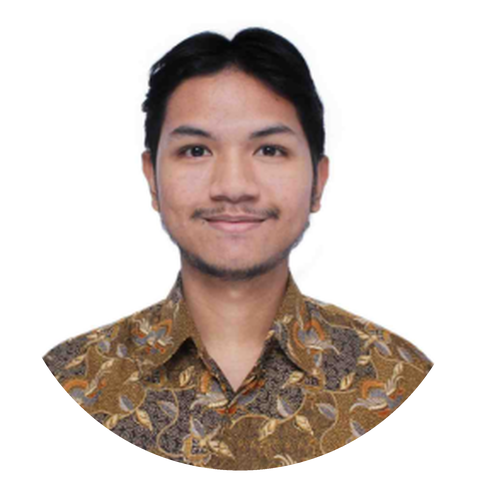
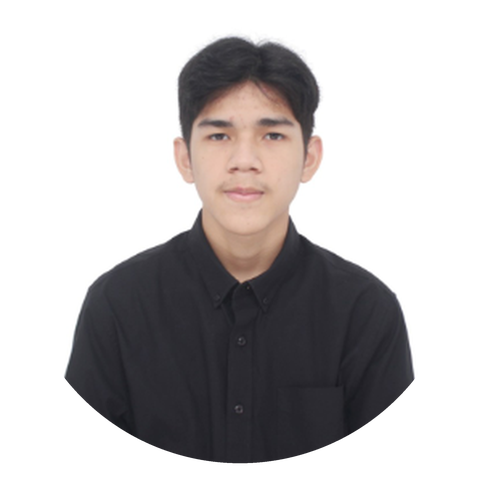
fix: external-link styling, swap emoji arrow for an SVG, LNA contributors
- .ext-link replaces the bright-blue .idfest-live-link and the plain
  .hrefnocolor header links: page-dark text on a hairline rule.
- U+2197 rendered as a blue emoji tile on Windows regardless of text
  colour; replaced with a currentColor SVG (.ext-arrow) on all 12 links.
- idfest.ppiunimalaya.id in the Live Preview lead is now a link.
- Large Number Arithmetic gains a contributor byline: Abqary Nasution,
  Gema Radya Prabowo and Ilham Narendra Setiabudi link to LinkedIn;
  Dafi Atha is a photo and name only (no profile supplied).
- The two IDFEST contributor photos were swapped relative to their
  names; corrected against the team-page screenshot.
- Chulalongkorn Phra Kiao crest replaces the CU monogram tile.

Claude-Session: https://claude.ai/code/session_01NPQ1TjCaAGkHdJJhGBBZJ3

diff --git a/v7/main.css b/v7/main.css
@@ -917,15 +917,32 @@ a.contributor-chip:hover .contributor-chip-avatar { border-color: #c7cbd1; }
     color: #374151;
 }
 
-/* a link that should visibly read as a link, not blend into plain text */
-.idfest-live-link {
-    color: #49a2f5;
+/* An external link that should read as a link without shouting: page-dark
+   text on a hairline rule that fills in on hover. No blue, nothing that
+   competes with the headline above it. */
+.ext-link {
+    color: #050505;
     font-weight: 600;
     text-decoration: none;
-    border-bottom: solid 1px rgba(73, 162, 245, .35);
-    transition: border-color .15s ease, color .15s ease;
+    white-space: nowrap;
+    border-bottom: solid 1px #d3d7dd;
+    transition: border-color .15s ease;
 }
-.idfest-live-link:hover { color: #2f8ae0; border-color: #2f8ae0; }
+.ext-link:hover { border-bottom-color: #050505; }
+
+/* The arrow next to an external link. Drawn as an SVG rather than the
+   character U+2197, which Windows and most phones render as a blue emoji
+   tile that ignores the surrounding text colour. */
+.ext-arrow {
+    width: .68em;
+    height: .68em;
+    display: inline-block;
+    vertical-align: -.02em;
+    margin-left: 4px;
+    flex: 0 0 auto;
+    opacity: .75;
+}
+a:hover > .ext-arrow { opacity: 1; }
 
 /* ── LIVE PREVIEW ── large, uncapped section screenshots (bigger than
    the standard .rf-figure, which caps at 480px tall) ── */

diff --git a/v7/content/projects/largenumber.php b/v7/content/projects/largenumber.php
@@ -20,7 +20,25 @@
             <br>
             <span>Arithmetic on numbers far larger than any built-in type can hold, using a doubly linked list where every digit is its own node. A Java engine does the maths; a Next.js visualizer walks the algorithm one step at a time so you can watch the carries move.</span>
             <div class="p-meta"><span class="p-meta-item"><span class="p-meta-k">Status</span><span class="p-meta-v">Complete</span></span><span class="p-meta-item"><span class="p-meta-k">Year</span><span class="p-meta-v">2026</span></span><span class="p-meta-item"><span class="p-meta-k">Role</span><span class="p-meta-v">Team Project</span></span><span class="p-meta-item"><span class="p-meta-k">Course</span><span class="p-meta-v">WIA1002 Data Structures</span></span></div>
-            <a href="https://github.com/rafiarsya07/WIA1002_LargeNumberArithmetic" target="_blank" rel="noopener" class="hrefnocolor">View on GitHub &#8599;</a>
+            <a href="https://github.com/rafiarsya07/WIA1002_LargeNumberArithmetic" target="_blank" rel="noopener" class="ext-link">View on GitHub<svg class="ext-arrow" viewBox="0 0 24 24" fill="none" stroke="currentColor" stroke-width="2.4" stroke-linecap="round" stroke-linejoin="round" aria-hidden="true"><path d="M7 17 17 7M8 7h9v9"/></svg></a>
+            <div class="contributors-byline">
+<a class="contributor-chip" href="https://www.linkedin.com/in/abqarynasution/" target="_blank" rel="noopener noreferrer">
+<img class="contributor-chip-avatar" src="image/assets/largenumber/contributor-abqary.png" alt="Abqary Nasution" loading="lazy" decoding="async">
+<span class="contributor-chip-name">Abqary Nasution</span>
+</a>
+<a class="contributor-chip" href="https://www.linkedin.com/in/gema-radya-prabowo-2ba8392b4/" target="_blank" rel="noopener noreferrer">
+<img class="contributor-chip-avatar" src="image/assets/largenumber/contributor-gema.png" alt="Gema Radya Prabowo" loading="lazy" decoding="async">
+<span class="contributor-chip-name">Gema Radya Prabowo</span>
+</a>
+<a class="contributor-chip" href="https://www.linkedin.com/in/ilhamsetiabudi/" target="_blank" rel="noopener noreferrer">
+<img class="contributor-chip-avatar" src="image/assets/largenumber/contributor-ilham.png" alt="Ilham Narendra Setiabudi" loading="lazy" decoding="async">
+<span class="contributor-chip-name">Ilham Narendra Setiabudi</span>
+</a>
+<span class="contributor-chip">
+<img class="contributor-chip-avatar" src="image/assets/largenumber/contributor-dafi.png" alt="Dafi Atha" loading="lazy" decoding="async">
+<span class="contributor-chip-name">Dafi Atha</span>
+</span>
+            </div>
         </div>
         <div style="border-top: solid 1px #acb8c0; margin-bottom: 10px;"></div>
         <h3>01 The Problem</h3>

diff --git a/v7/content/projects/idfest.php b/v7/content/projects/idfest.php
@@ -22,7 +22,7 @@
             <br>
             <span>The official website for IDFEST 2026, an Indonesian cultural festival organized by PPI Universiti Malaya. A collaborative build translating Figma designs into a fast, static Next.js frontend across the home timeline, Art Exhibition, and Musical Theater sections.</span>
             <br>
-            <div class="p-meta"><span class="p-meta-item"><span class="p-meta-k">Status</span><span class="p-meta-v">Completed</span></span><span class="p-meta-item"><span class="p-meta-k">Year</span><span class="p-meta-v">2026</span></span><span class="p-meta-item"><span class="p-meta-k">Role</span><span class="p-meta-v">Website Development Committee</span></span><span class="p-meta-item"><span class="p-meta-k">Stack</span><span class="p-meta-v">Next.js, Tailwind CSS</span></span></div><a href="https://idfest.ppiunimalaya.id/" target="_blank" rel="noopener" class="idfest-live-link">IDFEST 2026 &#8599;</a>
+            <div class="p-meta"><span class="p-meta-item"><span class="p-meta-k">Status</span><span class="p-meta-v">Completed</span></span><span class="p-meta-item"><span class="p-meta-k">Year</span><span class="p-meta-v">2026</span></span><span class="p-meta-item"><span class="p-meta-k">Role</span><span class="p-meta-v">Website Development Committee</span></span><span class="p-meta-item"><span class="p-meta-k">Stack</span><span class="p-meta-v">Next.js, Tailwind CSS</span></span></div><a href="https://idfest.ppiunimalaya.id/" target="_blank" rel="noopener" class="ext-link">IDFEST 2026<svg class="ext-arrow" viewBox="0 0 24 24" fill="none" stroke="currentColor" stroke-width="2.4" stroke-linecap="round" stroke-linejoin="round" aria-hidden="true"><path d="M7 17 17 7M8 7h9v9"/></svg></a>
             <div class="contributors-byline">
 <a class="contributor-chip" href="https://www.linkedin.com/in/ilhamsetiabudi/" target="_blank" rel="noopener noreferrer">
 <img class="contributor-chip-avatar" src="image/assets/idfest/contributor-ilham.png" alt="Ilham Narendra Setiabudi" loading="lazy" decoding="async">
@@ -53,7 +53,7 @@
         <br>
         <h3>03 Live Preview</h3>
         <div class="blog-content-body">
-<p class="rf-media-lead">A closer look at every main section, live at <b>idfest.ppiunimalaya.id</b>.</p>
+<p class="rf-media-lead">A closer look at every main section, live at <a class="ext-link" href="https://idfest.ppiunimalaya.id/" target="_blank" rel="noopener">idfest.ppiunimalaya.id<svg class="ext-arrow" viewBox="0 0 24 24" fill="none" stroke="currentColor" stroke-width="2.4" stroke-linecap="round" stroke-linejoin="round" aria-hidden="true"><path d="M7 17 17 7M8 7h9v9"/></svg></a>.</p>
 
 <div class="rf-livegroup">
 <p class="rf-livegroup-title">Home</p>

diff --git a/v7/content/projects/resumematch.php b/v7/content/projects/resumematch.php
@@ -21,7 +21,7 @@
             <br>
             <span>An algorithmic resume-to-job scoring engine, upload a resume PDF and a job description, get a fit score with a full breakdown of matched skills, missing skills, and extra value. No AI model, no API key, no database, pure tokenization, synonym canonicalization, and weighted scoring.</span>
             <br>
-            <div class="p-meta"><span class="p-meta-item"><span class="p-meta-k">Status</span><span class="p-meta-v">Completed, Live</span></span><span class="p-meta-item"><span class="p-meta-k">Year</span><span class="p-meta-v">2026</span></span><span class="p-meta-item"><span class="p-meta-k">Type</span><span class="p-meta-v">Algorithm Engine, Full Stack</span></span><span class="p-meta-item"><span class="p-meta-k">Cost</span><span class="p-meta-v">$0, No API Calls</span></span></div><a href="https://resumematch.rafiarsya.com" target="_blank" rel="noopener" class="hrefnocolor">resumematch.rafiarsya.com &#8599;</a>
+            <div class="p-meta"><span class="p-meta-item"><span class="p-meta-k">Status</span><span class="p-meta-v">Completed, Live</span></span><span class="p-meta-item"><span class="p-meta-k">Year</span><span class="p-meta-v">2026</span></span><span class="p-meta-item"><span class="p-meta-k">Type</span><span class="p-meta-v">Algorithm Engine, Full Stack</span></span><span class="p-meta-item"><span class="p-meta-k">Cost</span><span class="p-meta-v">$0, No API Calls</span></span></div><a href="https://resumematch.rafiarsya.com" target="_blank" rel="noopener" class="ext-link">resumematch.rafiarsya.com<svg class="ext-arrow" viewBox="0 0 24 24" fill="none" stroke="currentColor" stroke-width="2.4" stroke-linecap="round" stroke-linejoin="round" aria-hidden="true"><path d="M7 17 17 7M8 7h9v9"/></svg></a>
         </div>
         <div style="border-top: solid 1px #acb8c0; margin-bottom: 10px;"></div>
         <h3>01 Project Overview</h3>

diff --git a/v7/content/projects/csastudy.php b/v7/content/projects/csastudy.php
@@ -21,7 +21,7 @@
             <br>
             <span>A self-contained exam prep tool for WRES1201 (Computer Systems Architecture). Topic guide, formula reference, MCQ drills, and interactive visualizers for cache mapping, Hamming codes, and arithmetic shifts, with every number re-randomized on each reload so it never gets stale.</span>
             <br>
-            <div class="p-meta"><span class="p-meta-item"><span class="p-meta-k">Status</span><span class="p-meta-v">Completed, Live</span></span><span class="p-meta-item"><span class="p-meta-k">Year</span><span class="p-meta-v">2026</span></span><span class="p-meta-item"><span class="p-meta-k">Type</span><span class="p-meta-v">Study Tool, Course Prep</span></span><span class="p-meta-item"><span class="p-meta-k">File Size</span><span class="p-meta-v">1 HTML file</span></span></div><a href="https://csastudy.rafiarsya.com" target="_blank" rel="noopener" class="hrefnocolor">csastudy.rafiarsya.com &#8599;</a>
+            <div class="p-meta"><span class="p-meta-item"><span class="p-meta-k">Status</span><span class="p-meta-v">Completed, Live</span></span><span class="p-meta-item"><span class="p-meta-k">Year</span><span class="p-meta-v">2026</span></span><span class="p-meta-item"><span class="p-meta-k">Type</span><span class="p-meta-v">Study Tool, Course Prep</span></span><span class="p-meta-item"><span class="p-meta-k">File Size</span><span class="p-meta-v">1 HTML file</span></span></div><a href="https://csastudy.rafiarsya.com" target="_blank" rel="noopener" class="ext-link">csastudy.rafiarsya.com<svg class="ext-arrow" viewBox="0 0 24 24" fill="none" stroke="currentColor" stroke-width="2.4" stroke-linecap="round" stroke-linejoin="round" aria-hidden="true"><path d="M7 17 17 7M8 7h9v9"/></svg></a>
         </div>
         <div style="border-top: solid 1px #acb8c0; margin-bottom: 10px;"></div>
         <h3>01 Project Overview</h3>

diff --git a/v7/content/projects/papermind.php b/v7/content/projects/papermind.php
@@ -24,7 +24,7 @@
             <br>
             <span>A local RAG-powered academic paper analyzer. Upload any PDF, ask questions, get structured summaries, running 100% privately on self-hosted hardware. Zero cloud, zero cost, zero data leakage.</span>
             <br>
-            <div class="p-meta"><span class="p-meta-item"><span class="p-meta-k">Status</span><span class="p-meta-v">In Development</span></span><span class="p-meta-item"><span class="p-meta-k">Year</span><span class="p-meta-v">2026</span></span><span class="p-meta-item"><span class="p-meta-k">Role</span><span class="p-meta-v">Solo Developer</span></span><span class="p-meta-item"><span class="p-meta-k">Approach</span><span class="p-meta-v">RAG, Local LLM</span></span></div><a href="https://papermind.rafiarsya.com" target="_blank" rel="noopener" class="hrefnocolor">papermind.rafiarsya.com &#8599;</a>
+            <div class="p-meta"><span class="p-meta-item"><span class="p-meta-k">Status</span><span class="p-meta-v">In Development</span></span><span class="p-meta-item"><span class="p-meta-k">Year</span><span class="p-meta-v">2026</span></span><span class="p-meta-item"><span class="p-meta-k">Role</span><span class="p-meta-v">Solo Developer</span></span><span class="p-meta-item"><span class="p-meta-k">Approach</span><span class="p-meta-v">RAG, Local LLM</span></span></div><a href="https://papermind.rafiarsya.com" target="_blank" rel="noopener" class="ext-link">papermind.rafiarsya.com<svg class="ext-arrow" viewBox="0 0 24 24" fill="none" stroke="currentColor" stroke-width="2.4" stroke-linecap="round" stroke-linejoin="round" aria-hidden="true"><path d="M7 17 17 7M8 7h9v9"/></svg></a>
         </div>
         <div style="border-top: solid 1px #acb8c0; margin-bottom: 10px;"></div>
         <h3>01 Project Overview</h3>

diff --git a/v7/content/projects/rafifinance.php b/v7/content/projects/rafifinance.php
@@ -22,7 +22,7 @@
             <br>
             <span>A complete personal finance tracker built as a single HTML file. No server, no database, no framework. Transactions, budgets, saving goals, health score, 6-month analysis, works offline as a PWA.</span>
             <br>
-            <div class="p-meta"><span class="p-meta-item"><span class="p-meta-k">Status</span><span class="p-meta-v">Completed, Live</span></span><span class="p-meta-item"><span class="p-meta-k">Year</span><span class="p-meta-v">2026</span></span><span class="p-meta-item"><span class="p-meta-k">Type</span><span class="p-meta-v">Personal Tool, v4</span></span><span class="p-meta-item"><span class="p-meta-k">File Size</span><span class="p-meta-v">1 HTML file</span></span></div><a href="https://finance.rafiarsya.com" target="_blank" rel="noopener" class="hrefnocolor">finance.rafiarsya.com &#8599;</a>
+            <div class="p-meta"><span class="p-meta-item"><span class="p-meta-k">Status</span><span class="p-meta-v">Completed, Live</span></span><span class="p-meta-item"><span class="p-meta-k">Year</span><span class="p-meta-v">2026</span></span><span class="p-meta-item"><span class="p-meta-k">Type</span><span class="p-meta-v">Personal Tool, v4</span></span><span class="p-meta-item"><span class="p-meta-k">File Size</span><span class="p-meta-v">1 HTML file</span></span></div><a href="https://finance.rafiarsya.com" target="_blank" rel="noopener" class="ext-link">finance.rafiarsya.com<svg class="ext-arrow" viewBox="0 0 24 24" fill="none" stroke="currentColor" stroke-width="2.4" stroke-linecap="round" stroke-linejoin="round" aria-hidden="true"><path d="M7 17 17 7M8 7h9v9"/></svg></a>
         </div>
         <div style="border-top: solid 1px #acb8c0; margin-bottom: 10px;"></div>
         <h3>01 Project Overview</h3>

diff --git a/v7/content/projects/nase.php b/v7/content/projects/nase.php
@@ -22,7 +22,7 @@
             <br>
             <span>A full accessibility audit and redesign of the NASE platform for visually impaired users. 23 issues found, categorised by WCAG 2.1 severity, with redesigned components and an AI-powered contrast analysis pipeline.</span>
             <br>
-            <div class="p-meta"><span class="p-meta-item"><span class="p-meta-k">Status</span><span class="p-meta-v">Completed</span></span><span class="p-meta-item"><span class="p-meta-k">Year</span><span class="p-meta-v">2025</span></span><span class="p-meta-item"><span class="p-meta-k">Context</span><span class="p-meta-v">HCI Course, UM</span></span><span class="p-meta-item"><span class="p-meta-k">Standard</span><span class="p-meta-v">WCAG 2.1 AA</span></span></div><a href="https://hci.rafiarsya.com" target="_blank" rel="noopener" class="hrefnocolor">hci.rafiarsya.com &#8599;</a>
+            <div class="p-meta"><span class="p-meta-item"><span class="p-meta-k">Status</span><span class="p-meta-v">Completed</span></span><span class="p-meta-item"><span class="p-meta-k">Year</span><span class="p-meta-v">2025</span></span><span class="p-meta-item"><span class="p-meta-k">Context</span><span class="p-meta-v">HCI Course, UM</span></span><span class="p-meta-item"><span class="p-meta-k">Standard</span><span class="p-meta-v">WCAG 2.1 AA</span></span></div><a href="https://hci.rafiarsya.com" target="_blank" rel="noopener" class="ext-link">hci.rafiarsya.com<svg class="ext-arrow" viewBox="0 0 24 24" fill="none" stroke="currentColor" stroke-width="2.4" stroke-linecap="round" stroke-linejoin="round" aria-hidden="true"><path d="M7 17 17 7M8 7h9v9"/></svg></a>
         </div>
         <div style="border-top: solid 1px #acb8c0; margin-bottom: 10px;"></div>
         <h3>01 Project Overview</h3>

diff --git a/v7/content/projects/llmclassification.php b/v7/content/projects/llmclassification.php
@@ -20,7 +20,7 @@
             <br>
             <span>An end-to-end Kaggle-style pipeline for the Chatbot Arena preference task: given a prompt and two chatbot responses, predict which one a human preferred. This is the baseline pass &mdash; TF-IDF features and logistic regression, run on a small synthetic stand-in dataset to get the whole loop working before touching the real thing.</span>
             <div class="p-meta"><span class="p-meta-item"><span class="p-meta-k">Status</span><span class="p-meta-v">Baseline, on placeholder data</span></span><span class="p-meta-item"><span class="p-meta-k">Year</span><span class="p-meta-v">2026</span></span><span class="p-meta-item"><span class="p-meta-k">Role</span><span class="p-meta-v">Solo</span></span><span class="p-meta-item"><span class="p-meta-k">Scope</span><span class="p-meta-v">Pipeline, not a competitive score</span></span></div>
-            <a href="https://github.com/rafiarsya07/llm-classification" target="_blank" rel="noopener" class="hrefnocolor">View on GitHub &#8599;</a>
+            <a href="https://github.com/rafiarsya07/llm-classification" target="_blank" rel="noopener" class="ext-link">View on GitHub<svg class="ext-arrow" viewBox="0 0 24 24" fill="none" stroke="currentColor" stroke-width="2.4" stroke-linecap="round" stroke-linejoin="round" aria-hidden="true"><path d="M7 17 17 7M8 7h9v9"/></svg></a>
         </div>
         <div style="border-top: solid 1px #acb8c0; margin-bottom: 10px;"></div>
         <h3>01 What This Is, And What It Is Not</h3>

diff --git a/v7/content/projects/digitrecognition.php b/v7/content/projects/digitrecognition.php
@@ -20,7 +20,7 @@
             <br>
             <span>Draw a digit in the browser and a convolutional network recognises it &mdash; written entirely in NumPy, with no PyTorch or TensorFlow anywhere in the stack. Every convolution, pooling layer, backward pass and optimiser step is hand-written. 99.12% accuracy on the real MNIST test set, with an animated visualizer that shows how the decision was reached, down to the pixel.</span>
             <div class="p-meta"><span class="p-meta-item"><span class="p-meta-k">Status</span><span class="p-meta-v">Complete</span></span><span class="p-meta-item"><span class="p-meta-k">Year</span><span class="p-meta-v">2026</span></span><span class="p-meta-item"><span class="p-meta-k">Role</span><span class="p-meta-v">Solo Developer</span></span><span class="p-meta-item"><span class="p-meta-k">Test accuracy</span><span class="p-meta-v">99.12% on MNIST</span></span></div>
-            <a href="https://github.com/rafiarsya07/ai-digit-recognizer" target="_blank" rel="noopener" class="hrefnocolor">View on GitHub &#8599;</a>
+            <a href="https://github.com/rafiarsya07/ai-digit-recognizer" target="_blank" rel="noopener" class="ext-link">View on GitHub<svg class="ext-arrow" viewBox="0 0 24 24" fill="none" stroke="currentColor" stroke-width="2.4" stroke-linecap="round" stroke-linejoin="round" aria-hidden="true"><path d="M7 17 17 7M8 7h9v9"/></svg></a>
         </div>
         <div style="border-top: solid 1px #acb8c0; margin-bottom: 10px;"></div>
         <h3>01 The Rule</h3>

diff --git a/v7/content/projects/aievaldashboard.php b/v7/content/projects/aievaldashboard.php
@@ -21,7 +21,7 @@
             <br>
             <span>A test harness for AI output. You write question and expected-answer pairs, pick a model, and hit Run &mdash; the dashboard asks the model every question, has Claude grade each answer as correct, partial, incorrect or hallucinated, and reports accuracy, latency and cost per run.</span>
             <div class="p-meta"><span class="p-meta-item"><span class="p-meta-k">Status</span><span class="p-meta-v">In Development</span></span><span class="p-meta-item"><span class="p-meta-k">Year</span><span class="p-meta-v">2026</span></span><span class="p-meta-item"><span class="p-meta-k">Role</span><span class="p-meta-v">Solo Developer</span></span><span class="p-meta-item"><span class="p-meta-k">Stack</span><span class="p-meta-v">React, Vite, Tailwind, Recharts</span></span></div>
-            <a href="https://github.com/rafiarsya07/ai-eval-dashboard" target="_blank" rel="noopener" class="hrefnocolor">View on GitHub &#8599;</a>
+            <a href="https://github.com/rafiarsya07/ai-eval-dashboard" target="_blank" rel="noopener" class="ext-link">View on GitHub<svg class="ext-arrow" viewBox="0 0 24 24" fill="none" stroke="currentColor" stroke-width="2.4" stroke-linecap="round" stroke-linejoin="round" aria-hidden="true"><path d="M7 17 17 7M8 7h9v9"/></svg></a>
         </div>
         <div style="border-top: solid 1px #acb8c0; margin-bottom: 10px;"></div>
         <h3>01 Why Grading By Hand Breaks</h3>

diff --git a/v7/content/projects/pricetracker.php b/v7/content/projects/pricetracker.php
@@ -20,7 +20,7 @@
             <br>
             <span>A Chrome extension that tracks the price of any product on any website. You click the price on the page once; it re-checks every three hours in the background and sends a notification when the price drops. No scraping API, no server, no account.</span>
             <div class="p-meta"><span class="p-meta-item"><span class="p-meta-k">Status</span><span class="p-meta-v">Working</span></span><span class="p-meta-item"><span class="p-meta-k">Year</span><span class="p-meta-v">2026</span></span><span class="p-meta-item"><span class="p-meta-k">Role</span><span class="p-meta-v">Solo Developer</span></span><span class="p-meta-item"><span class="p-meta-k">Runtime cost</span><span class="p-meta-v">$0, entirely in-browser</span></span></div>
-            <a href="https://github.com/rafiarsya07/price-tracker-extension" target="_blank" rel="noopener" class="hrefnocolor">View on GitHub &#8599;</a>
+            <a href="https://github.com/rafiarsya07/price-tracker-extension" target="_blank" rel="noopener" class="ext-link">View on GitHub<svg class="ext-arrow" viewBox="0 0 24 24" fill="none" stroke="currentColor" stroke-width="2.4" stroke-linecap="round" stroke-linejoin="round" aria-hidden="true"><path d="M7 17 17 7M8 7h9v9"/></svg></a>
         </div>
         <div style="border-top: solid 1px #acb8c0; margin-bottom: 10px;"></div>
         <h3>01 The Constraint</h3>
